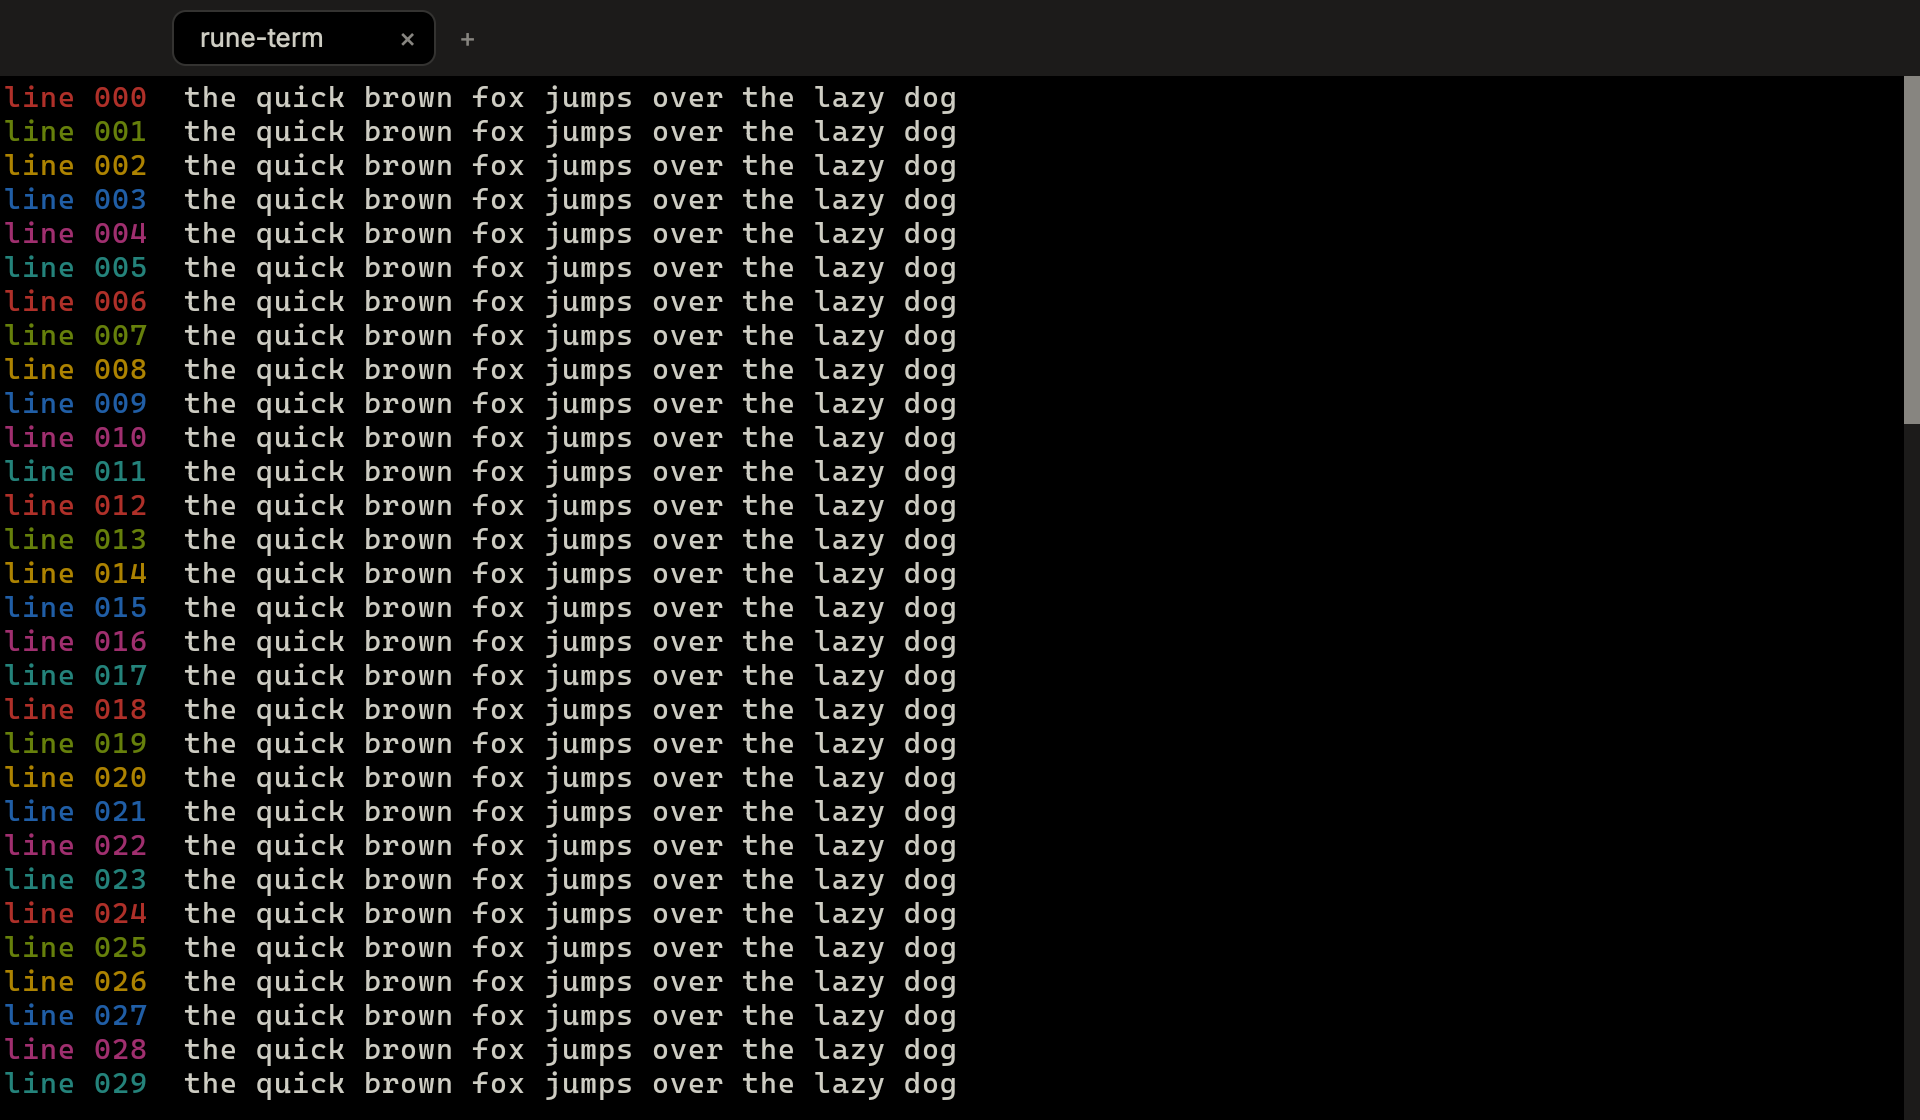
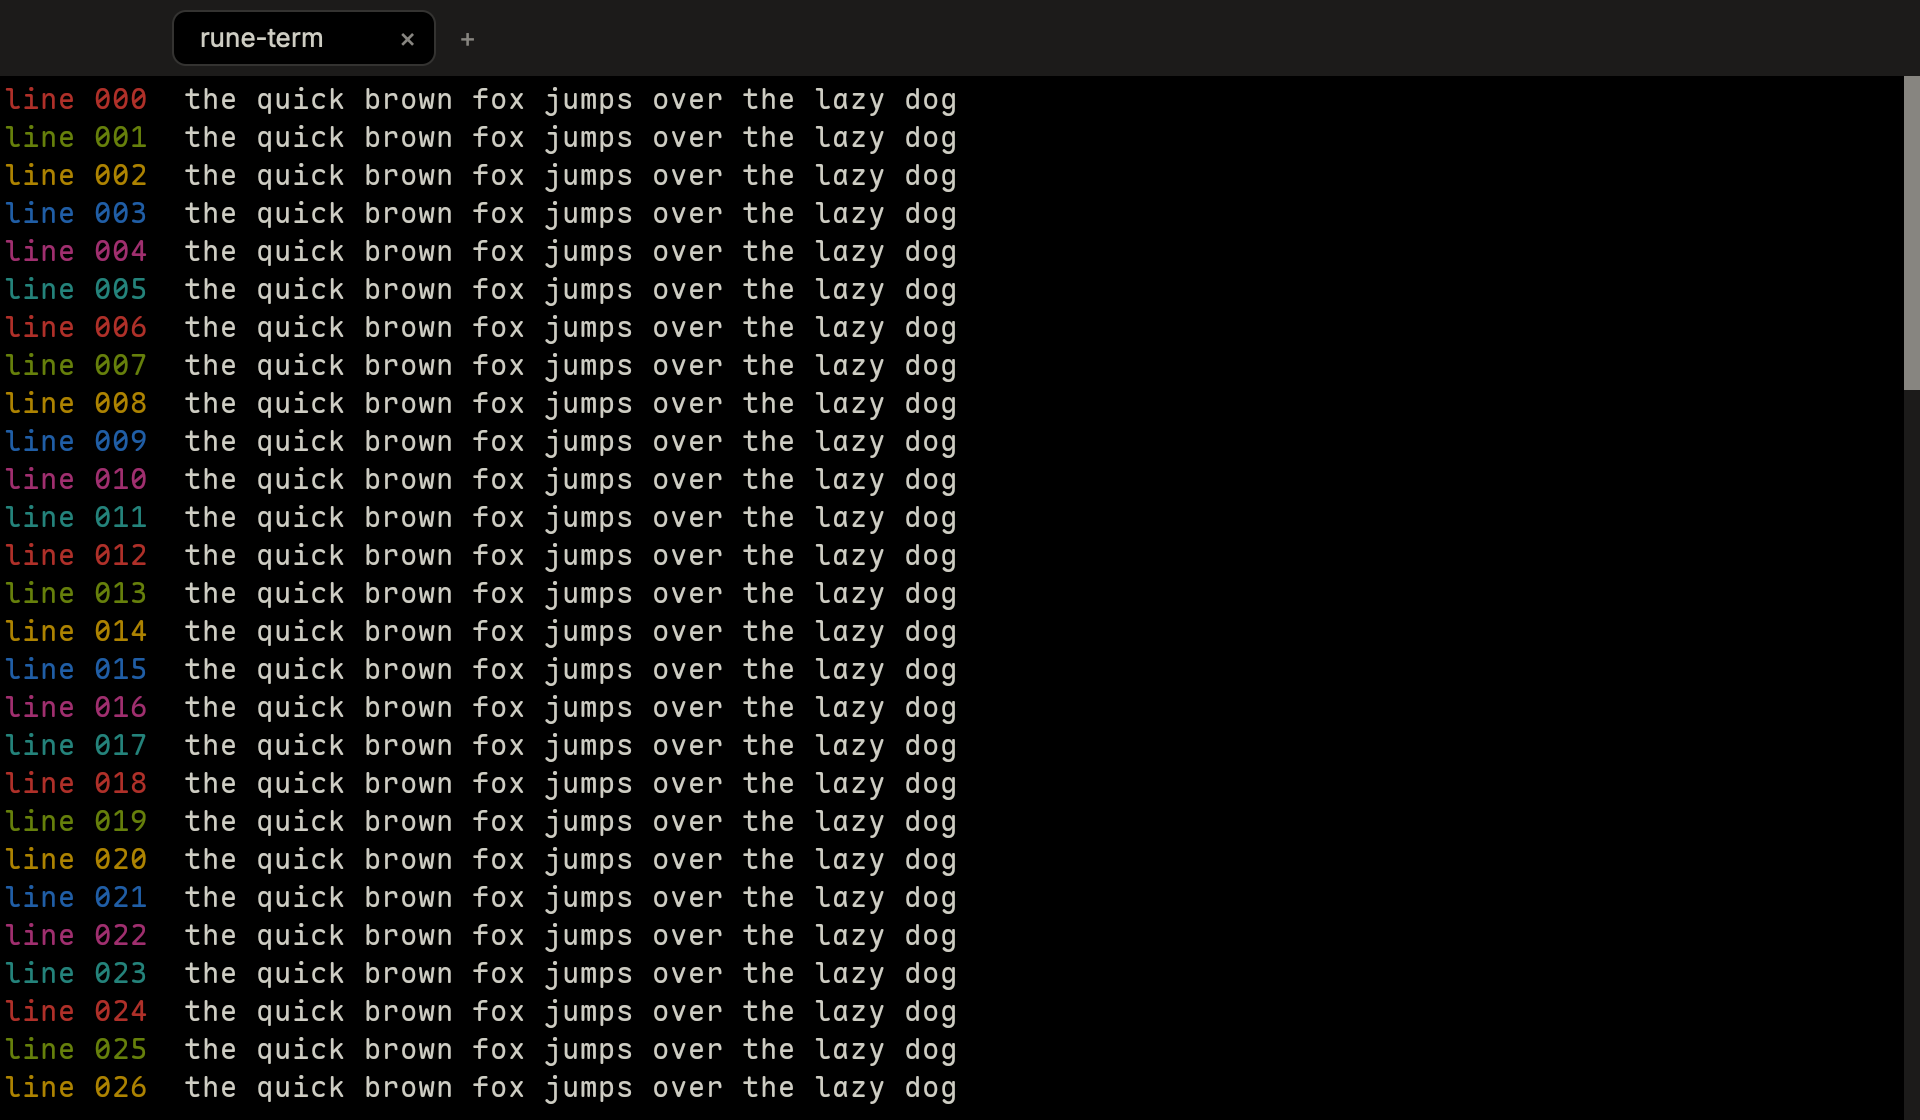
feat(font): make Maple Mono NF the default face
The bundled v8 Nerd Font regular now sets the cell and defaults new profiles; Cascadia is no longer embedded. The compact CJK fallback stays for glyphs Maple lacks. Shots, docs and the font picker follow the new default. Release binary drops from 64.1 to 61.6 MiB.

Assisted-by: AGENT:Hy4 flash Free

Changed region(s): [[0.0, 0.0625, 0.5, 1.0], [0.9688, 0.3438, 1.0, 0.375]]

diff --git a/term-grid/src/face.rs b/term-grid/src/face.rs
@@ -1,4 +1,4 @@
-//! The font files the grid draws with: bundled Cascadia Code NF, Maple Mono NF or Maple Mono NF CN, or an installed family.
+//! The font files the grid draws with: bundled Maple Mono NF or Maple Mono NF CN, or an installed family.
 
 use std::collections::HashMap;
 use std::sync::atomic::{AtomicBool, Ordering};
@@ -9,20 +9,18 @@ use fontique::{Blob, Collection, CollectionOptions, FontStyle, FontWeight, FontW
 use swash::FontRef;
 
 /// The family the grid draws with when a profile names none, or one that is not installed.
-pub const BUNDLED_FAMILY: &str = "Cascadia Code NF";
+pub const BUNDLED_FAMILY: &str = "Maple Mono NF";
 
-/// The other bundled families, Nerd Fonts with wider language coverage.
-pub const MAPLE_FAMILY: &str = "Maple Mono NF";
+/// The bundled face's family, kept as a name for callers that ask for Maple.
+pub const MAPLE_FAMILY: &str = BUNDLED_FAMILY;
+
 /// Maple Mono NF with Chinese and Japanese glyphs from WenYuan Rounded SC.
 pub const MAPLE_CN_FAMILY: &str = "Maple Mono NF CN";
 
-/// Same bytes Sugarloaf embeds. Vendored so a clone builds without the Rio tree.
-pub(crate) const BUNDLED: &[u8] = include_bytes!("../CascadiaCodeNF.ttf");
-
-/// The static regular faces from the v8.0-beta.3 Nerd Font releases of the
+/// The static regular face from the v8.0-beta.3 Nerd Font release of the
 /// variable branch. The grid draws one instance, so a variable file would
 /// only add bytes for axes it never sets.
-pub(crate) const MAPLE: &[u8] = include_bytes!("../MapleMonoNF.ttf");
+pub(crate) const BUNDLED: &[u8] = include_bytes!("../MapleMonoNF.ttf");
 pub(crate) const MAPLE_CN: &[u8] = include_bytes!("../MapleMonoNF-CN.ttf");
 
 /// A compact subset of Maple Mono NF CN for codepoints the profile's face misses.
@@ -50,8 +48,7 @@ impl Face {
 
     /// The bundled Maple Mono NF face, with the same Nerd Font glyphs and wider language coverage.
     pub fn bundled_maple() -> Self {
-        static DATA: OnceLock<Blob<u8>> = OnceLock::new();
-        Self::bundled_named(MAPLE_FAMILY, MAPLE, &DATA)
+        Self::bundled()
     }
 
     /// The bundled Maple Mono NF CN face, adding Chinese and Japanese glyphs.
@@ -157,7 +154,6 @@ fn scan() -> Vec<String> {
         .collect();
     families.sort_by_key(|name| name.to_lowercase());
     families.insert(0, MAPLE_CN_FAMILY.to_owned());
-    families.insert(0, MAPLE_FAMILY.to_owned());
     families.insert(0, BUNDLED_FAMILY.to_owned());
     families
 }
@@ -201,26 +197,19 @@ mod tests {
 
     #[test]
     fn maple_faces_load_their_own_bundled_bytes() {
-        for (family, bundled) in [
-            (MAPLE_FAMILY, Face::bundled_maple()),
-            (MAPLE_CN_FAMILY, Face::bundled_maple_cn()),
-        ] {
-            let face = Face::load(family);
-            assert_eq!(face, bundled);
-            assert_ne!(face, Face::bundled());
-            assert_eq!(face.family(), family);
-            assert!(face.monospaced());
-        }
+        assert_eq!(Face::load(MAPLE_FAMILY), Face::bundled());
+        let cn = Face::load(MAPLE_CN_FAMILY);
+        assert_eq!(cn, Face::bundled_maple_cn());
+        assert_ne!(cn, Face::bundled());
+        assert_eq!(cn.family(), MAPLE_CN_FAMILY);
+        assert!(cn.monospaced());
     }
 
     #[cfg(target_os = "macos")]
     #[test]
     fn the_list_is_the_bundled_families_then_the_monospaced_ones() {
         let families = scan();
-        assert_eq!(
-            &families[..3],
-            [BUNDLED_FAMILY, MAPLE_FAMILY, MAPLE_CN_FAMILY]
-        );
+        assert_eq!(&families[..2], [BUNDLED_FAMILY, MAPLE_CN_FAMILY]);
         assert!(families.iter().any(|f| f == "Menlo"), "{families:?}");
         assert!(!families.iter().any(|f| f == "Helvetica"), "{families:?}");
     }

diff --git a/rune-term/src/settings.rs b/rune-term/src/settings.rs
@@ -180,7 +180,7 @@ impl Transport {
 impl Default for Profile {
     fn default() -> Self {
         Self {
-            font_family: "Cascadia Code NF".to_owned(),
+            font_family: "Maple Mono NF".to_owned(),
             font_size: None,
             theme: None,
             backend: "local".to_owned(),
@@ -346,7 +346,7 @@ impl ConfigFile {
         let font_family = profile
             .map(|p| p.font_family.trim())
             .filter(|f| !f.is_empty())
-            .unwrap_or("Cascadia Code NF")
+            .unwrap_or("Maple Mono NF")
             .to_owned();
         let font_size = profile
             .and_then(|p| p.font_size)
@@ -1057,13 +1057,13 @@ theme = "Flexoki Black"
         fs::create_dir_all(dir.join("profiles")).unwrap();
         fs::write(
             dir.join("profiles/Default.toml"),
-            "font_family = \"Cascadia Code NF\"\nfont_size = 14.0\n",
+            "font_family = \"Maple Mono NF\"\nfont_size = 14.0\n",
         )
         .unwrap();
         fs::write(
             dir.join("profiles/Work.toml"),
             r#"
-font_family = "Cascadia Code NF"
+font_family = "Maple Mono NF"
 font_size = 18.0
 theme = "Flexoki Light"
 "#,

diff --git a/term-grid/src/atlas.rs b/term-grid/src/atlas.rs
@@ -1,5 +1,5 @@
 //! One 2048² gray atlas, plus a color atlas for system emoji.
-//! The face is the profile's family, Cascadia Code NF by default. ASCII is rasterized up
+//! The face is the profile's family, Maple Mono NF by default. ASCII is rasterized up
 //! front. Every other covered codepoint is rasterized on demand into the
 //! same cell. A codepoint the face does not cover is drawn from the compact
 //! bundled fallback, then by the macOS cascade. The faces are OFL; see the
@@ -1142,7 +1142,7 @@ mod tests {
         assert!(g_bot > h_bot, "descender {g_bot} vs cap {h_bot}");
         assert!(g_bot + 1 < g.h, "g clipped at {g_bot} of {}", g.h);
         let (w, h) = face_cell();
-        assert!(w >= 8.0 && h >= 16.0, "cascadia cell {w}x{h}");
+        assert!(w >= 8.0 && h >= 16.0, "bundled cell {w}x{h}");
     }
 
     #[test]

diff --git a/term-grid/src/fallback.rs b/term-grid/src/fallback.rs
@@ -1,4 +1,4 @@
-//! macOS cascade for codepoints the face does not cover, cascading from Cascadia Code NF.
+//! macOS cascade for codepoints the face does not cover, cascading from the bundled face.
 //! CoreText picks the system font, including color emoji, and draws it.
 //! The emoji file stays on disk.
 

diff --git a/docs/config.md b/docs/config.md
@@ -51,7 +51,7 @@ light = "Flexoki Light"
 ## `profiles/<name>.toml`
 
 ```toml
-font_family = "Cascadia Code NF"
+font_family = "Maple Mono NF"
 font_size = 14.0
 theme = "Nord"
 backend = "local"
@@ -62,7 +62,7 @@ program = "/bin/zsh"
 args = ["-l"]
 ```
 
-- `font_family`: default `"Cascadia Code NF"`, which is bundled. `"Maple Mono NF"` and `"Maple Mono NF CN"` are bundled too: Nerd Fonts with wider language coverage, the CN variant adding Chinese and Japanese glyphs. The profile editor lists all three and the installed monospaced families. An installed family draws in its regular face; an unknown one draws in the bundled default. A symbol the face lacks comes from the system's fallback fonts.
+- `font_family`: default `"Maple Mono NF"`, bundled from the v8 Nerd Font release. `"Maple Mono NF CN"` is bundled too, adding Chinese and Japanese glyphs. The profile editor lists both and the installed monospaced families. An installed family draws in its regular face; an unknown one draws in the bundled default. A symbol the face lacks comes from the compact CJK fallback, then a system font.
 - `font_size` (optional): overrides `settings.font_size`.
 - `theme` (optional): a theme name. When it is omitted, the profile inherits. With both `adaptive_theme` names set, that is the desktop appearance, and the field reads `Inherit (Appearance)`. Otherwise it is `settings.theme`, and the field reads `Inherit` and that name. A named theme wins over both. The menu lists theme names. Inherit is the empty value.
 - `backend`: `"local"`, a shell here, or `"tmux"` or `"rmux"`, a session whose windows are a group of tabs. For a session:

diff --git a/AGENTS.md b/AGENTS.md
@@ -85,6 +85,6 @@ comments, and docs: a pattern being there does not make it correct.
 - `map_key` copies platform `text` and `consumed_mods`. It does not
   synthesize a US-QWERTY string. `logo` maps to super. Command chords stay
   with the window.
-- The cell is `face_cell()` of Cascadia Code NF at 14 points. A cmap miss
+- The cell is `face_cell()` of Maple Mono NF at 14 points. A cmap miss
   uses the compact bundled CJK fallback, then a system font `term-font` finds;
   macOS draws color emoji through CoreText. No color emoji file is embedded.

diff --git a/README.md b/README.md
@@ -53,6 +53,7 @@ network, as mosh does: [`docs/agent.md`](./docs/agent.md).
 
 ## License
 
-MIT. Cascadia Code NF and Maple Mono NF, vendored in `term-grid/`, are SIL OFL 1.1.
+MIT. Maple Mono NF, vendored in `term-grid/` as the default face, is SIL OFL 1.1.
+Cascadia Code NF remains vendored but is no longer embedded.
 `CjkFallback.ttf` is a renamed, compact subset of Maple Mono NF CN under the same license.
 `term-font`'s COLR parser is adapted from Rune (MIT, Copyright 2026 Anomaly).
